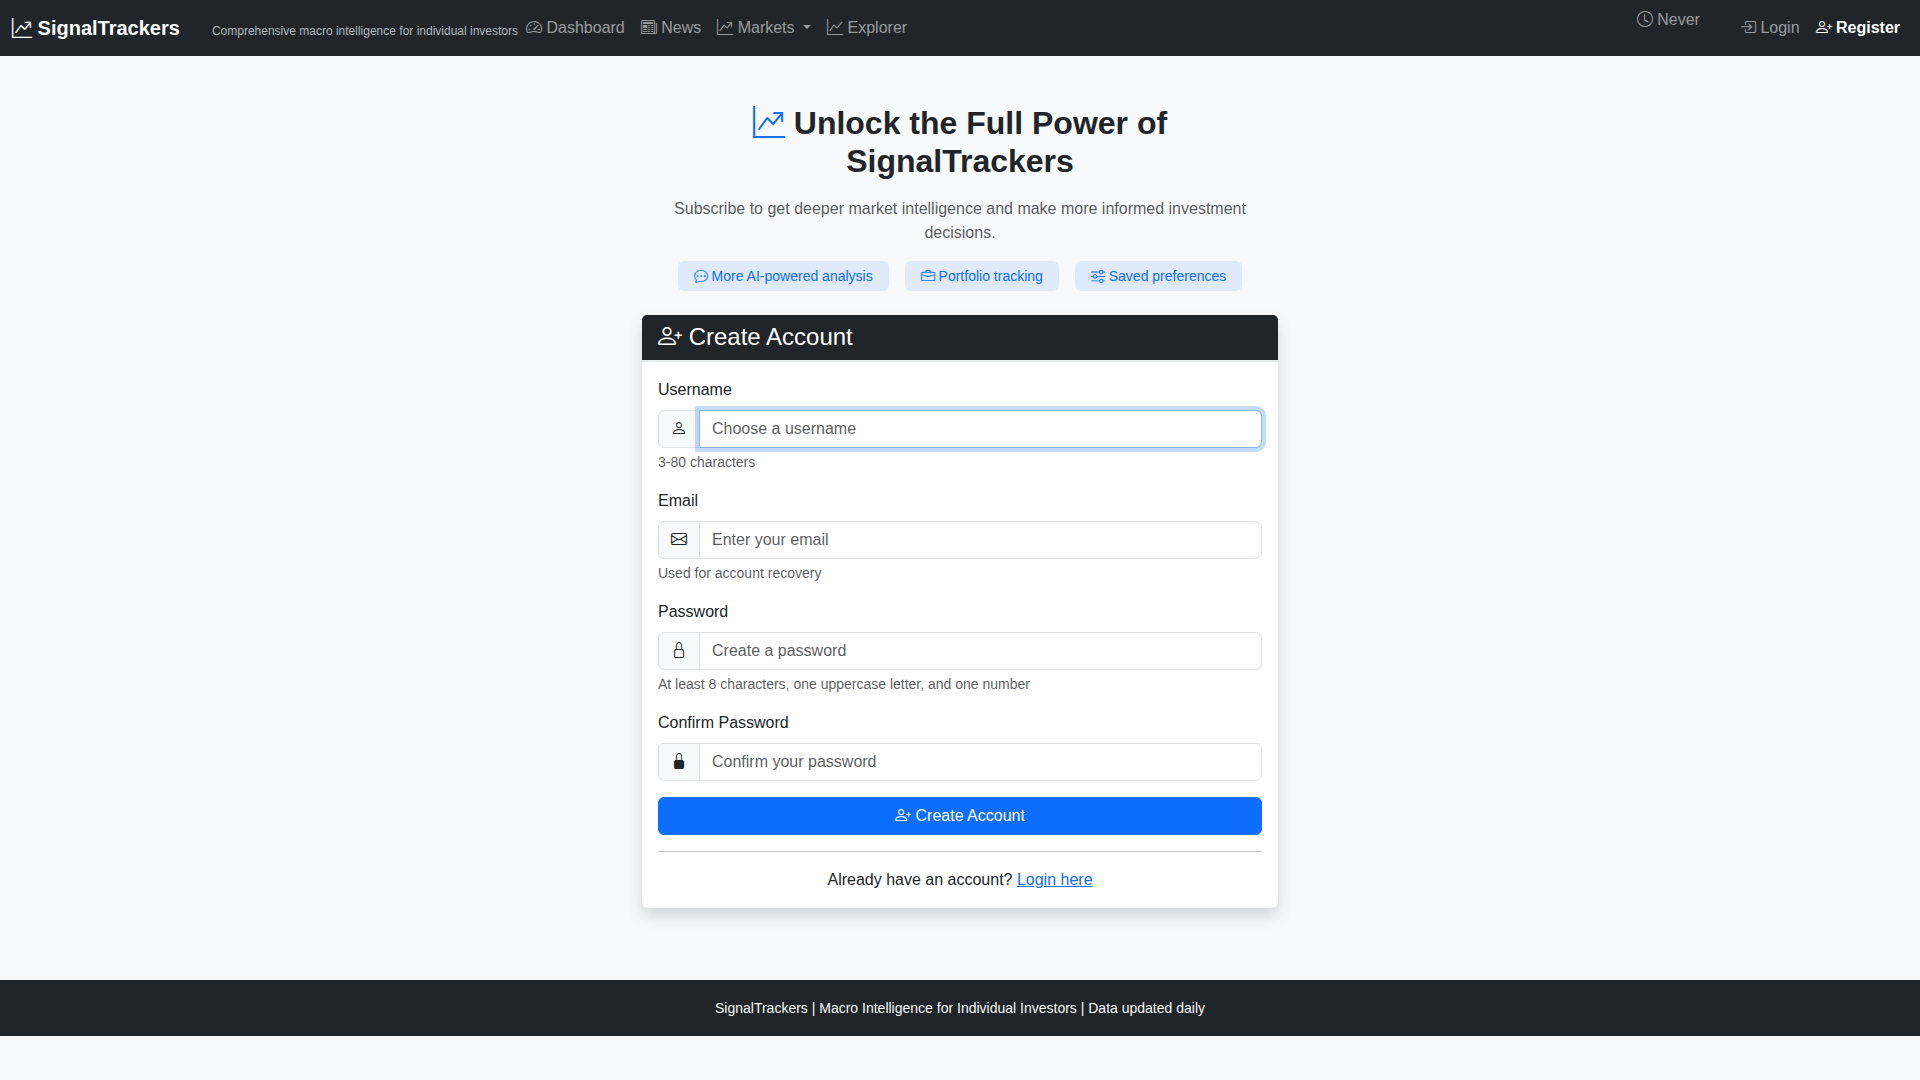
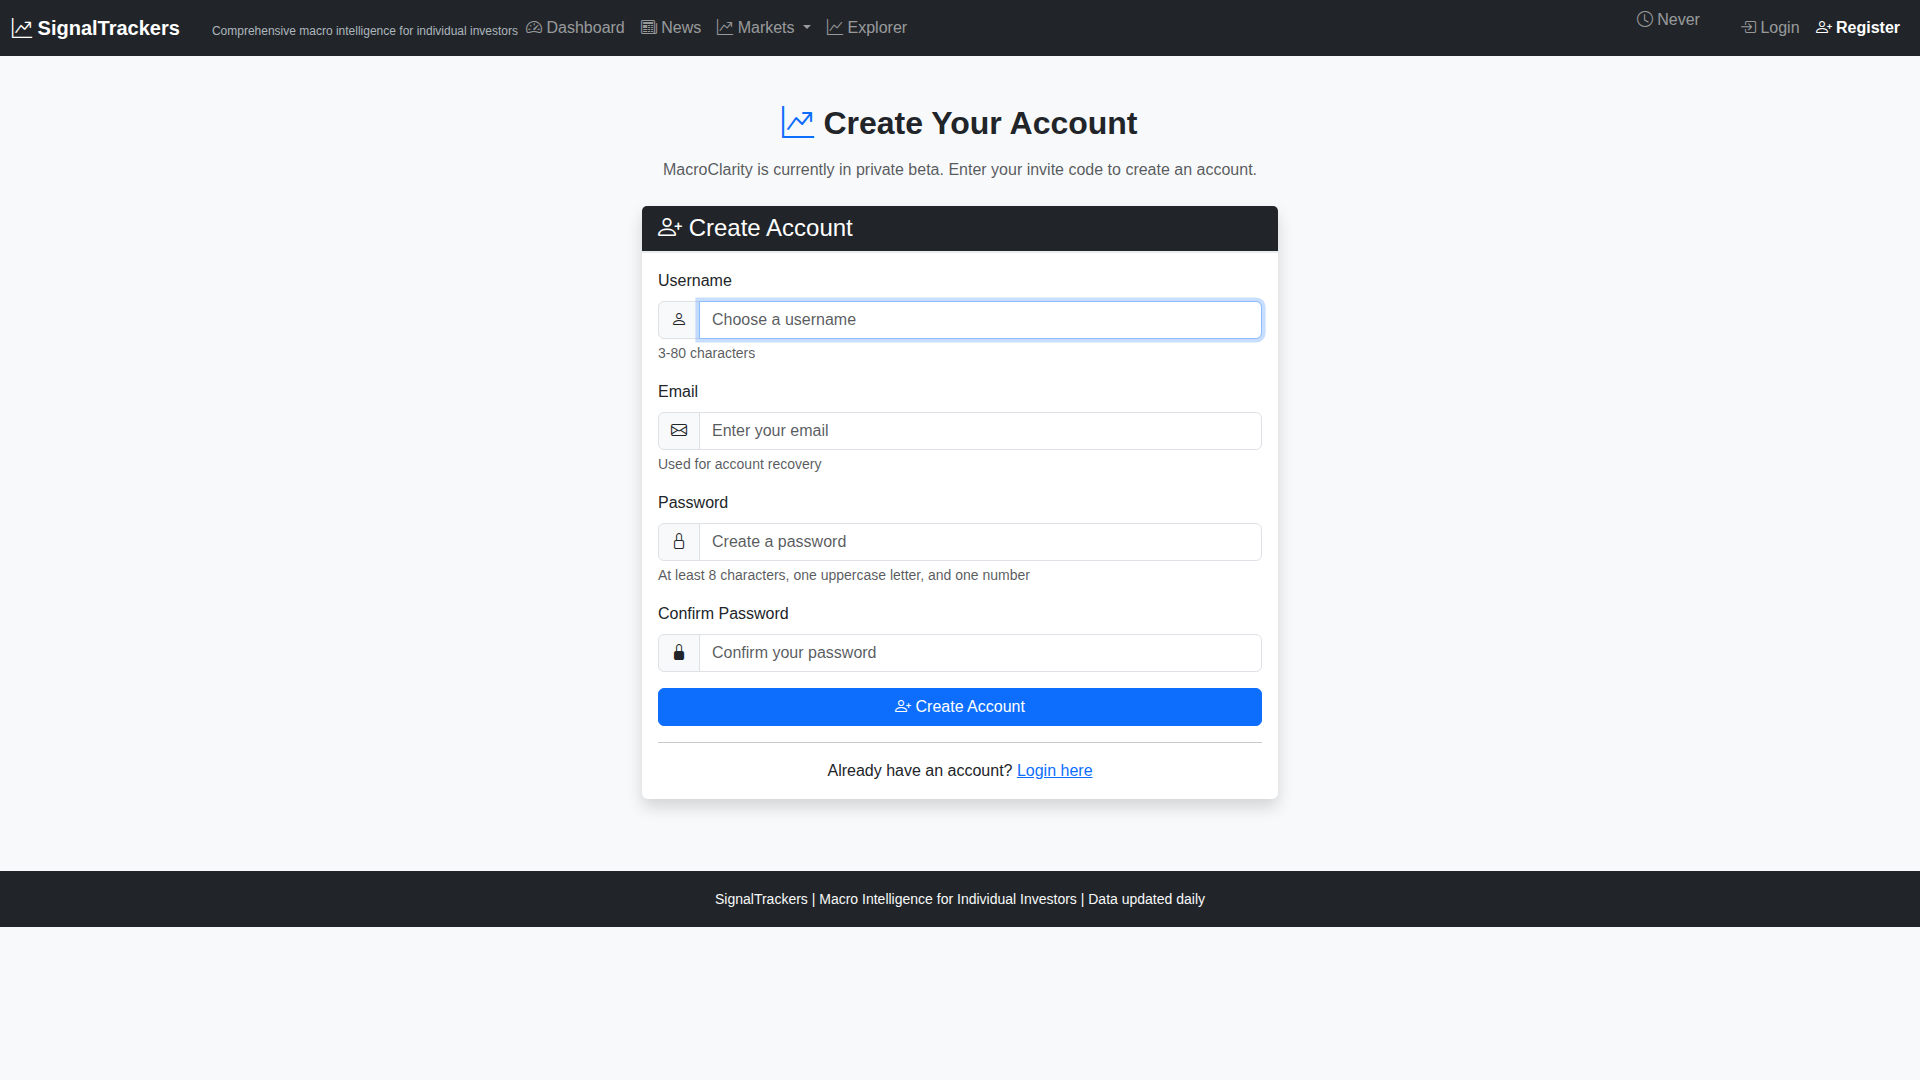
Implement SITE_MODE-driven messaging for registration and rate limits
- Add SITE_MODE message lookup table in rate_limiting.py with copy for
  invite_only, paid, and open modes
- Replace hardcoded subscription/payment language in anonymous rate limit
  responses with config-driven messages
- Add signup_label field to rate limit JSON responses so frontend CTA
  buttons use mode-appropriate text
- Update registration page: invite-only shows private beta messaging,
  remove Phase 12 context-aware signup copy with trial/upgrade references
- Update chatbot.js, ai-section-btn.js, portfolio.html to use
  backend-provided signup_label instead of hardcoded "Subscribe"
- Update related tests for new function signatures and messaging

Implements #429 per design spec.

Changed region(s): [[0.0, 0.0917, 1.0, 0.8556], [0.0, 0.8861, 1.0, 0.9778]]

diff --git a/signaltrackers/static/js/components/chatbot.js b/signaltrackers/static/js/components/chatbot.js
@@ -232,7 +232,7 @@ class ChatbotWidget {
             if (error.message === 'AI_UNAVAILABLE') {
                 this.showError('AI Temporarily Unavailable. Please try again later.', false, '🤖');
             } else if (error.message === 'RATE_LIMITED') {
-                this.showRateLimitError(error.userMessage, error.signupUrl);
+                this.showRateLimitError(error.userMessage, error.signupUrl, error.signupLabel);
             } else {
                 // Network errors (fetch threw) or other server errors — show retry option
                 this.showError('Connection Error. Could not reach the AI. Check your internet connection.', true, '⚠');
@@ -268,6 +268,7 @@ class ChatbotWidget {
             const err = new Error('RATE_LIMITED');
             err.userMessage = data.message;
             err.signupUrl = data.signup_url || null;
+            err.signupLabel = data.signup_label || null;
             err.limitType = data.limit_type || null;
             throw err;
         }
@@ -422,7 +423,7 @@ class ChatbotWidget {
         this.announce(`Error: ${errorMessage}`, 'assertive');
     }
 
-    showRateLimitError(message, signupUrl) {
+    showRateLimitError(message, signupUrl, signupLabel) {
         const fallback = 'Rate limit reached. Please try again later.';
         const errorEl = document.createElement('div');
         errorEl.className = 'chatbot-message chatbot-message--error chatbot-message--rate-limit';
@@ -430,7 +431,8 @@ class ChatbotWidget {
         const msgText = this.escapeHTML(message || fallback);
         let ctaHtml = '';
         if (signupUrl) {
-            ctaHtml = `<a href="${this.escapeHTML(signupUrl)}" class="chatbot-signup-cta">Subscribe</a>`;
+            const label = this.escapeHTML(signupLabel || 'Sign Up');
+            ctaHtml = `<a href="${this.escapeHTML(signupUrl)}" class="chatbot-signup-cta">${label}</a>`;
         }
 
         errorEl.innerHTML = `
@@ -678,7 +680,7 @@ class ChatbotWidget {
             if (error.message === 'AI_UNAVAILABLE') {
                 this.showError('AI Temporarily Unavailable. Please try again later.', false, '🤖');
             } else if (error.message === 'RATE_LIMITED') {
-                this.showRateLimitError(error.userMessage, error.signupUrl);
+                this.showRateLimitError(error.userMessage, error.signupUrl, error.signupLabel);
             } else {
                 this.showError('Connection Error. Could not reach the AI. Check your internet connection.', true, '⚠');
             }

diff --git a/signaltrackers/templates/auth/register.html b/signaltrackers/templates/auth/register.html
@@ -6,21 +6,16 @@
 <div class="row justify-content-center mt-5">
     <div class="col-md-8 col-lg-6">
         <div class="text-center mb-4">
-            <h2 class="fw-bold mb-3"><i class="bi bi-graph-up-arrow text-primary"></i> Unlock the Full Power of SignalTrackers</h2>
+            <h2 class="fw-bold mb-3"><i class="bi bi-graph-up-arrow text-primary"></i> Create Your Account</h2>
+            {% if config.SITE_MODE == 'invite_only' %}
             <p class="text-muted mb-3">
-                Subscribe to get deeper market intelligence and make more informed investment decisions.
+                MacroClarity is currently in private beta. Enter your invite code to create an account.
             </p>
-            <div class="d-flex flex-column flex-sm-row justify-content-center gap-3 mb-2">
-                <span class="badge bg-primary bg-opacity-10 text-primary fw-normal px-3 py-2">
-                    <i class="bi bi-chat-dots"></i> More AI-powered analysis
-                </span>
-                <span class="badge bg-primary bg-opacity-10 text-primary fw-normal px-3 py-2">
-                    <i class="bi bi-briefcase"></i> Portfolio tracking
-                </span>
-                <span class="badge bg-primary bg-opacity-10 text-primary fw-normal px-3 py-2">
-                    <i class="bi bi-sliders"></i> Saved preferences
-                </span>
-            </div>
+            {% else %}
+            <p class="text-muted mb-3">
+                Get deeper market intelligence with AI-powered analysis, portfolio tracking, and personalized insights.
+            </p>
+            {% endif %}
         </div>
 
         <div class="card shadow">

diff --git a/signaltrackers/templates/portfolio.html b/signaltrackers/templates/portfolio.html
@@ -861,7 +861,8 @@ async function loadPortfolioSummary() {
 
         if (response.status === 429) {
             const msg = escapeHtml(data.message || 'Rate limit reached. Please try again later.');
-            const cta = data.signup_url ? ` <a href="${escapeHtml(data.signup_url)}" class="btn btn-sm btn-primary ms-2">Subscribe</a>` : '';
+            const ctaLabel = escapeHtml(data.signup_label || 'Sign Up');
+            const cta = data.signup_url ? ` <a href="${escapeHtml(data.signup_url)}" class="btn btn-sm btn-primary ms-2">${ctaLabel}</a>` : '';
             contentDiv.innerHTML = `<p class="text-warning mb-0"><i class="bi bi-exclamation-triangle"></i> ${msg}${cta}</p>`;
             contentDiv.classList.remove('d-none');
             errorDiv.classList.add('d-none');
@@ -920,7 +921,8 @@ async function refreshPortfolioSummary() {
 
         if (response.status === 429) {
             const msg = escapeHtml(data.message || 'Rate limit reached. Please try again later.');
-            const cta = data.signup_url ? ` <a href="${escapeHtml(data.signup_url)}" class="btn btn-sm btn-primary ms-2">Subscribe</a>` : '';
+            const ctaLabel = escapeHtml(data.signup_label || 'Sign Up');
+            const cta = data.signup_url ? ` <a href="${escapeHtml(data.signup_url)}" class="btn btn-sm btn-primary ms-2">${ctaLabel}</a>` : '';
             contentDiv.innerHTML = `<p class="text-warning"><i class="bi bi-exclamation-triangle"></i> ${msg}${cta}</p>`;
         } else if (data.error) {
             contentDiv.innerHTML = `<p class="text-danger"><i class="bi bi-exclamation-circle"></i> ${data.error}</p>`;

diff --git a/signaltrackers/static/js/components/ai-section-btn.js b/signaltrackers/static/js/components/ai-section-btn.js
@@ -130,7 +130,7 @@ async function openChatbotWithSection(sectionId) {
         if (resp.status === 429) {
             // Rate limited — show inline message with signup CTA
             const errData = await resp.json();
-            widget.showRateLimitError(errData.message, errData.signup_url || null);
+            widget.showRateLimitError(errData.message, errData.signup_url || null, errData.signup_label || null);
         } else if (!resp.ok) {
             // API error — fall back to static opening
             widget.addSectionOpeningMessage(ctx.opening);

diff --git a/signaltrackers/services/rate_limiting.py b/signaltrackers/services/rate_limiting.py
@@ -20,6 +20,41 @@ from flask_login import current_user
 
 logger = logging.getLogger(__name__)
 
+# SITE_MODE-driven user-facing copy for rate limit and signup messages
+_SITE_MODE_MESSAGES = {
+    'invite_only': {
+        'anonymous_rate_limit': (
+            "You've reached your daily limit. "
+            "Limits reset at midnight UTC."
+        ),
+        'signup_prompt': 'Registration is invite-only. Contact us for access.',
+        'signup_label': 'Request Access',
+    },
+    'paid': {
+        'anonymous_rate_limit': (
+            'Subscribe to get guaranteed access and higher limits.'
+        ),
+        'signup_prompt': 'Sign up for a free trial.',
+        'signup_label': 'Subscribe',
+    },
+    'open': {
+        'anonymous_rate_limit': (
+            "You've reached the free limit for this feature."
+        ),
+        'signup_prompt': 'Create an account for higher limits.',
+        'signup_label': 'Sign Up',
+    },
+}
+
+_DEFAULT_SITE_MODE = 'invite_only'
+
+
+def _get_site_mode_messages():
+    """Get user-facing copy for the current SITE_MODE."""
+    mode = current_app.config.get('SITE_MODE', _DEFAULT_SITE_MODE)
+    return _SITE_MODE_MESSAGES.get(mode, _SITE_MODE_MESSAGES[_DEFAULT_SITE_MODE])
+
+
 # Endpoint category constants
 CATEGORY_CHATBOT = 'chatbot'
 CATEGORY_ANALYSIS = 'analysis'
@@ -106,15 +141,13 @@ def check_global_anonymous_limit():
         with _global_lock:
             _reset_if_new_day()
             if _global_count >= limit:
+                msgs = _get_site_mode_messages()
                 return {
                     'limited': True,
-                    'message': (
-                        'Our AI features have reached their daily limit. '
-                        'Subscribe to get guaranteed access and '
-                        'higher limits.'
-                    ),
+                    'message': msgs['anonymous_rate_limit'],
                     'limit_type': 'anonymous_global_daily',
                     'signup_url': '/register',
+                    'signup_label': msgs['signup_label'],
                 }
 
         return None
@@ -162,16 +195,14 @@ def check_anonymous_rate_limit(category):
         current_count = session.get(key, 0)
 
         if current_count >= limit:
+            msgs = _get_site_mode_messages()
             return {
                 'limited': True,
-                'message': (
-                    'You\'ve reached the free session limit for this feature. '
-                    'Subscribe to get higher limits and a '
-                    'personalized experience.'
-                ),
+                'message': msgs['anonymous_rate_limit'],
                 'limit_type': 'anonymous_session',
                 'category': category,
                 'signup_url': '/register',
+                'signup_label': msgs['signup_label'],
             }
 
         return None

diff --git a/tests/test_us1242_graceful_rate_limit_redirect.py b/tests/test_us1242_graceful_rate_limit_redirect.py
@@ -98,7 +98,7 @@ class TestChatbotRateLimitUX:
 
     def test_chatbot_calls_rate_limit_error_on_429(self):
         """Chatbot calls showRateLimitError (not generic showError) on RATE_LIMITED."""
-        assert "this.showRateLimitError(error.userMessage, error.signupUrl)" in CHATBOT_JS_SOURCE
+        assert "this.showRateLimitError(error.userMessage, error.signupUrl, error.signupLabel)" in CHATBOT_JS_SOURCE
 
     def test_chatbot_renders_signup_cta_link(self):
         """Rate limit error renders a signup CTA link."""
@@ -168,7 +168,7 @@ class TestPortfolioRateLimitUX:
     def test_portfolio_renders_signup_cta(self):
         """Portfolio rate limit messages include signup CTA link."""
         assert 'signup_url' in PORTFOLIO_SOURCE
-        assert 'Subscribe' in PORTFOLIO_SOURCE
+        assert 'signup_label' in PORTFOLIO_SOURCE
 
     def test_portfolio_escapes_html(self):
         """Portfolio sanitizes rate limit messages to prevent XSS."""
